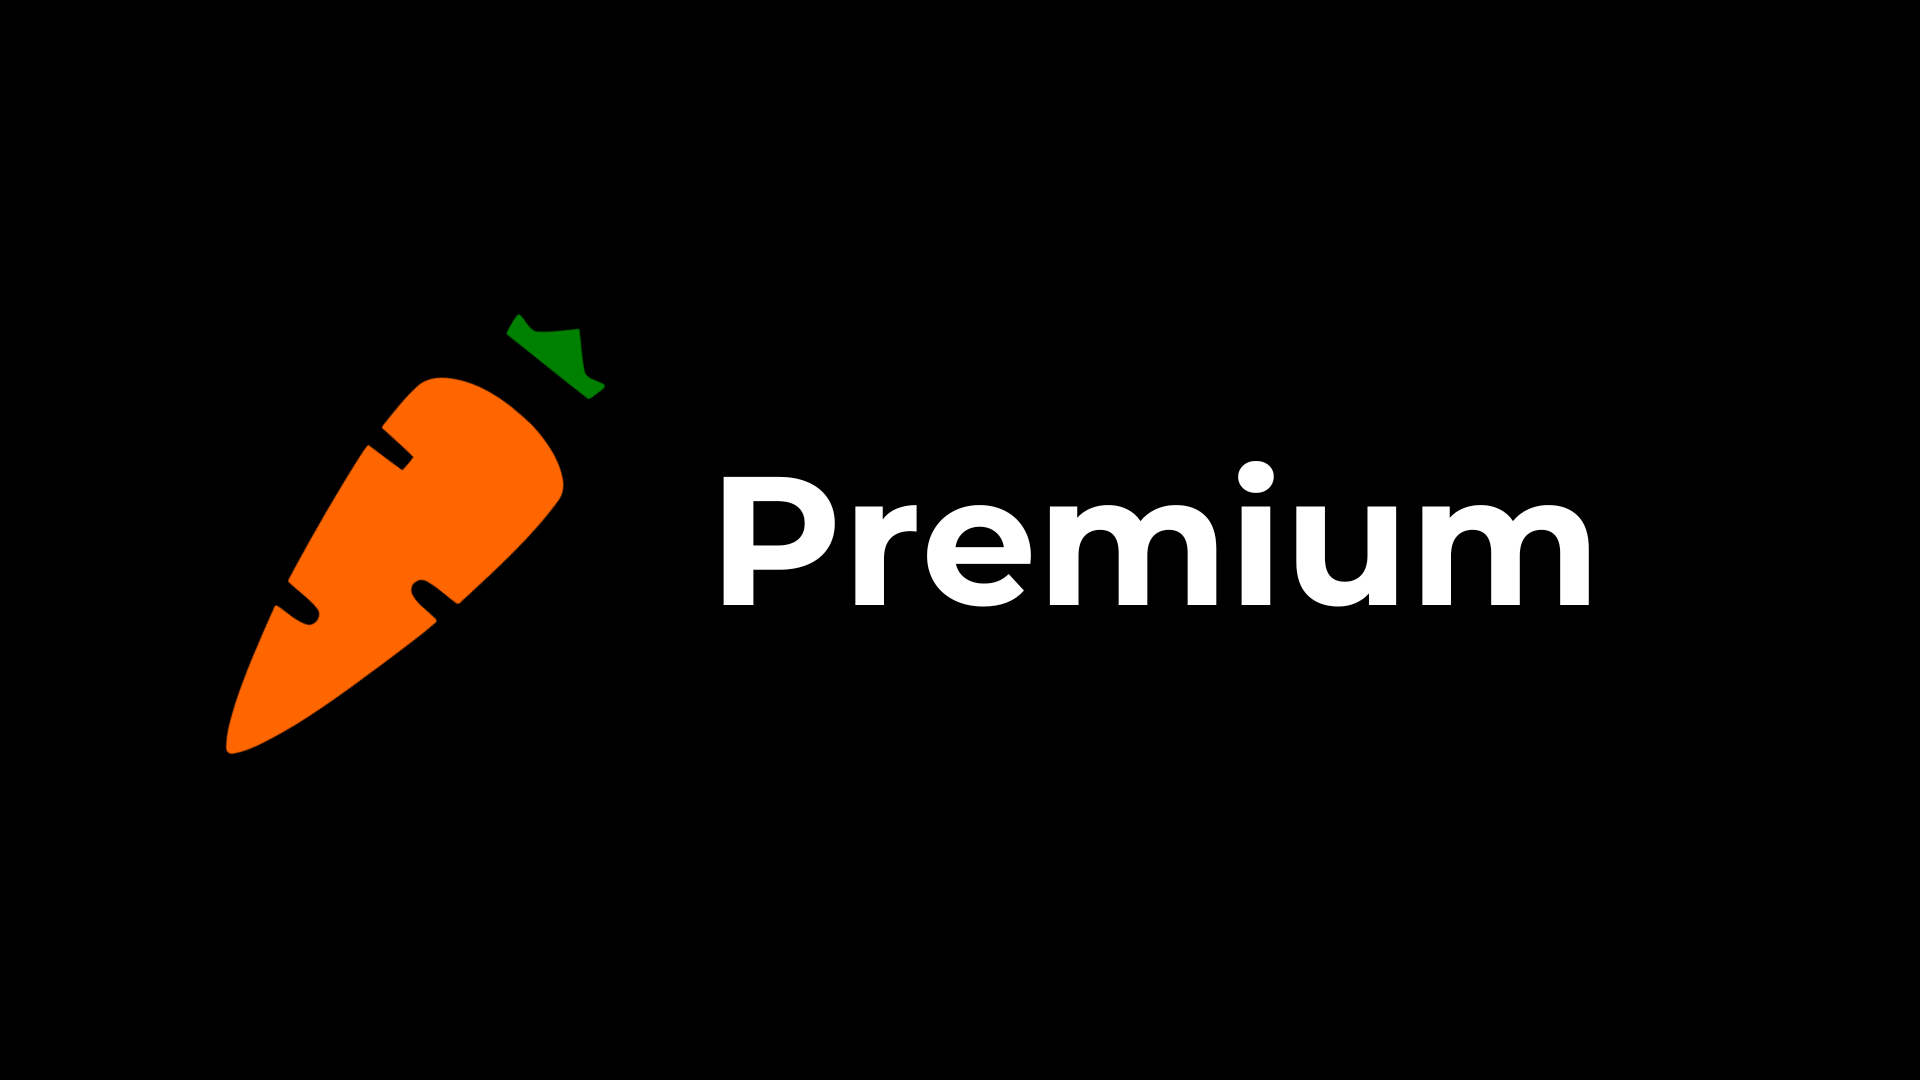
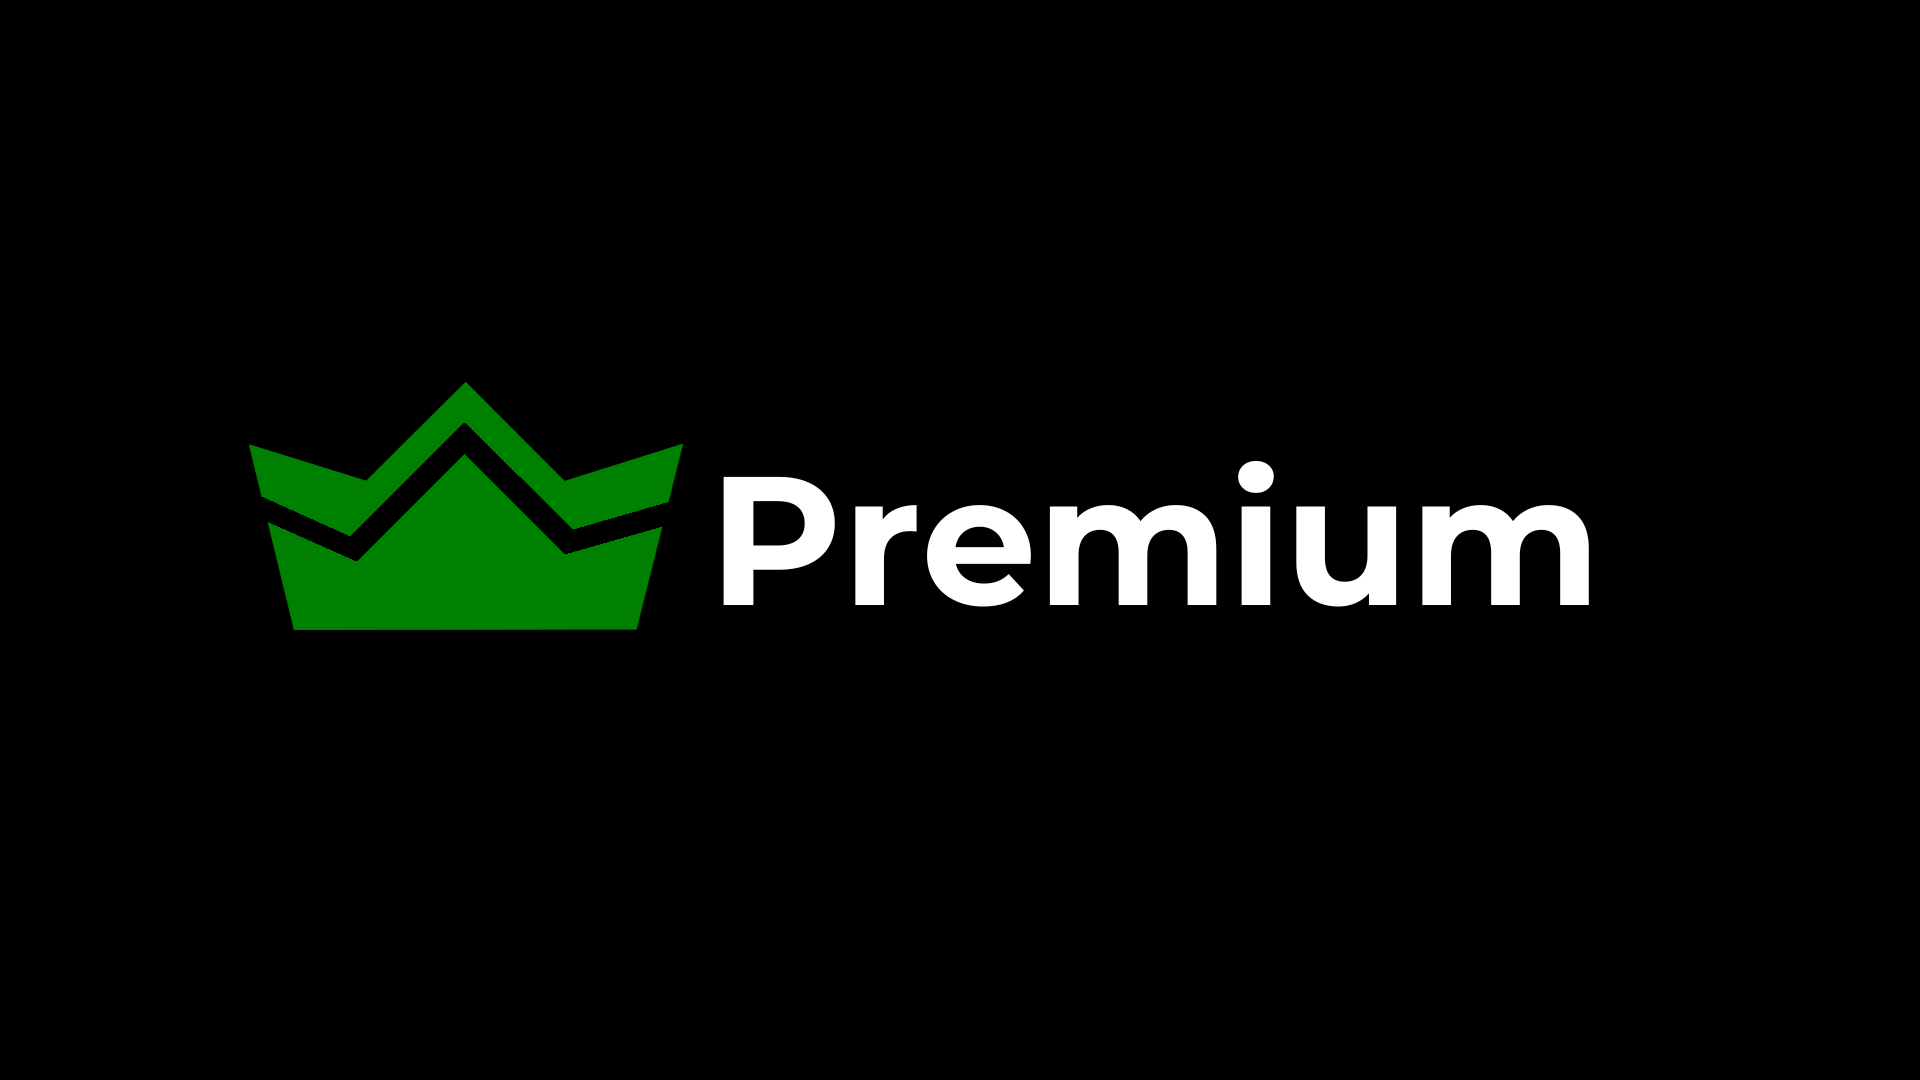
Mudança do premium

Changed region(s): [[0.0938, 0.3361, 0.375, 0.7028], [0.25, 0.275, 0.3125, 0.3667]]

diff --git a/TCC/JAVASCRIPT/ESPECIFICO/COMPRAPROD/aparecerConteudo.js b/TCC/JAVASCRIPT/ESPECIFICO/COMPRAPROD/aparecerConteudo.js
@@ -47,13 +47,16 @@ function conteudo(cont) {
                 <div class="aval-encl">
                     <div class="avaliacao">
                         <div class="estr-data">
-                            <figure>
-                                <img src="../../IMG/estrela.png" alt="">
-                                <img src="../../IMG/estrela.png" alt="">
-                                <img src="../../IMG/estrela.png" alt="">
-                                <img src="../../IMG/estrela.png" alt="">
-                                <img src="../../IMG/estrela.png" alt="">
-                            </figure>
+                            <div class="estrelas">
+                                <figure>
+                                    <img src="../../IMG/estrela.png" alt="">
+                                    <img src="../../IMG/estrela.png" alt="">
+                                    <img src="../../IMG/estrela.png" alt="">
+                                    <img src="../../IMG/estrela.png" alt="">
+                                    <img src="../../IMG/estrela.png" alt="">
+                                </figure>
+                                <p>5.0</p>
+                            </div>
                             <p>11/04/2023</p>
                         </div>
                         <h1>Nome do Usuário</h1>
@@ -83,13 +86,16 @@ function conteudo(cont) {
 
                     <div class="avaliacao">
                         <div class="estr-data">
-                            <figure>
-                                <img src="../../IMG/estrela.png" alt="">
-                                <img src="../../IMG/estrela.png" alt="">
-                                <img src="../../IMG/estrela.png" alt="">
-                                <img src="../../IMG/estrela.png" alt="">
-                                <img src="../../IMG/estrela.png" alt="">
-                            </figure>
+                            <div class="estrelas">
+                                <figure>
+                                    <img src="../../IMG/estrela.png" alt="">
+                                    <img src="../../IMG/estrela.png" alt="">
+                                    <img src="../../IMG/estrela.png" alt="">
+                                    <img src="../../IMG/estrela.png" alt="">
+                                    <img src="../../IMG/estrela.png" alt="">
+                                </figure>
+                                <p>5.0</p>
+                            </div>
                             <p>11/04/2023</p>
                         </div>
                         <h1>Nome do Usuário</h1>
@@ -119,13 +125,16 @@ function conteudo(cont) {
 
                     <div class="avaliacao">
                         <div class="estr-data">
-                            <figure>
-                                <img src="../../IMG/estrela.png" alt="">
-                                <img src="../../IMG/estrela.png" alt="">
-                                <img src="../../IMG/estrela.png" alt="">
-                                <img src="../../IMG/estrela.png" alt="">
-                                <img src="../../IMG/estrela.png" alt="">
-                            </figure>
+                            <div class="estrelas">
+                                <figure>
+                                    <img src="../../IMG/estrela.png" alt="">
+                                    <img src="../../IMG/estrela.png" alt="">
+                                    <img src="../../IMG/estrela.png" alt="">
+                                    <img src="../../IMG/estrela.png" alt="">
+                                    <img src="../../IMG/estrela.png" alt="">
+                                </figure>
+                                <p>5.0</p>
+                            </div>
                             <p>11/04/2023</p>
                         </div>
                         <h1>Nome do Usuário</h1>

diff --git a/TCC/STYLES/ESPECIFICO/compra-prod.css b/TCC/STYLES/ESPECIFICO/compra-prod.css
@@ -197,7 +197,12 @@ section .info-Vend .info-encl figure img, section .melhor-Av .info-user-encl .in
     border-radius: 50%;
 }
 
-section .info-Vend .info-encl #logo img, section .melhor-Av .info-user-encl .info-user .info-user-nomefoto img{
+section .info-Vend .info-encl #logo img{
+    width: 30px;
+    margin: 0 5px 0 20px;
+}
+
+section .melhor-Av .info-user-encl .info-user .info-user-nomefoto img{
     background-color: var(--preto);
     width: 30px;
     margin-left: 20px;
@@ -418,6 +423,15 @@ AVALIAÇÕES
 
 .info-add .aval-encl .avaliacao .info-adic .likeDeslike .invertido{
     rotate: 180deg;
+}
+
+.estrelas{
+    display: flex;
+    align-items: center;
+}
+
+.estrelas p{
+    margin-left: 10px;
 }
 
 /* 

diff --git a/TCC/STYLES/ESPECIFICO/login.css b/TCC/STYLES/ESPECIFICO/login.css
@@ -3,7 +3,7 @@
 .imgLogin {
     display: block;
     background-image: url("../../IMG/img-login.jpg");
-    width: 75vw;
+    width: 80vw;
     height: 100vh;
     background-position: center center;
     background-size: cover;
@@ -99,11 +99,12 @@ label {
 }
 
 .campo i {
-    width: 40px;
+    width: 50px;
+    text-align: center;
     margin: 0.81rem 0;
     color: var(--branco);
     font-size: 2.3em;
-    padding-right: 43px;
+    padding-right: 8px;
 }
 
 .campo i:hover {

diff --git a/TCC/PAGINAS/PRINCIPAL/compra-prod.php b/TCC/PAGINAS/PRINCIPAL/compra-prod.php
@@ -59,7 +59,7 @@
                 </figure>
                 <h1>Yuri Esteves</h1>
                 <figure id="logo">
-                    <img src="../../IMG/logo.png" alt="">
+                    <img src="../../IMG/coroaPremium.png" alt="">
                 </figure>
                 <p>Vendedor <strong>Premium</strong></p>
             </div>
@@ -91,7 +91,7 @@
                 </figure>
                 <h1>Yuri Esteves</h1>
                 <figure id="logo">
-                    <img src="../../IMG/logo.png" alt="">
+                    <img src="../../IMG/coroaPremium.png" alt="">
                 </figure>
                 <p>Vendedor <strong>Premium</strong></p>
             </div>
@@ -121,7 +121,7 @@
                     <h1>Osiris Nóbrega</h1>
                     <div class="info-user-nomefoto">
                         <p>Usuario <strong>Premium</strong></p>
-                        <img src="../../IMG/logo.png" alt="">
+                        <img src="../../IMG/coroaPremium.png" alt="">
                     </div>
 
                 </div>

diff --git a/TCC/PAGINAS/PRINCIPAL/login.php b/TCC/PAGINAS/PRINCIPAL/login.php
@@ -26,7 +26,7 @@
             </div>
         </div>
         <div class="formulario">
-            <form action="<?=$_SERVER['PHP_SELF']?>" method="post">
+            <form action="home.php" method="post">
                 <div class="formInputs">
                     <label for="email">E-mail</label>
                     <div class="campo">
